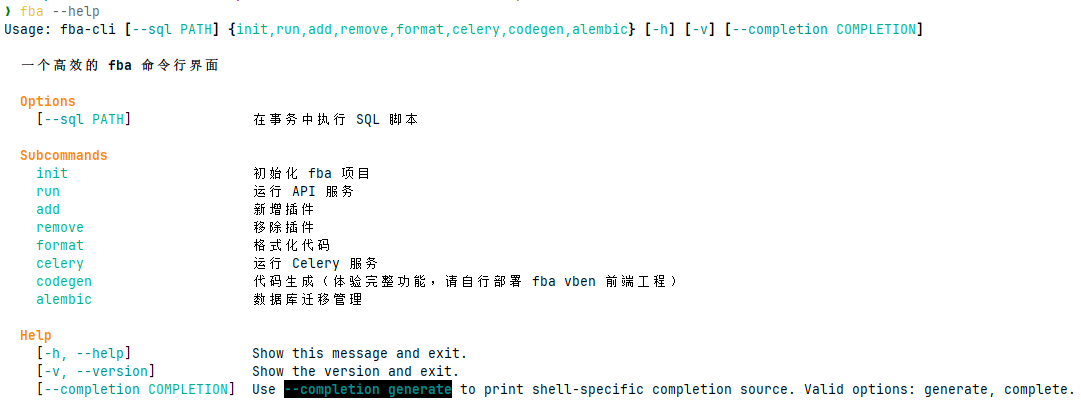
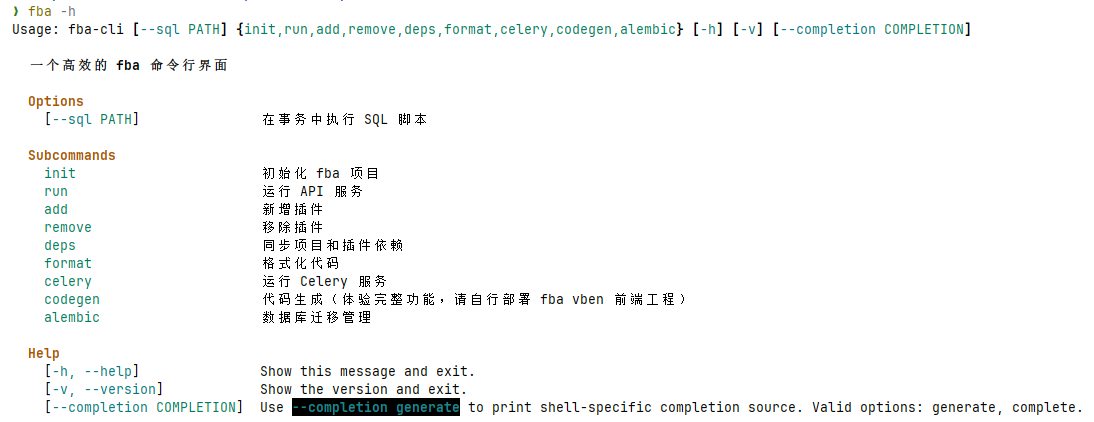
update docs

diff --git a/docs/backend/reference/pagination.md b/docs/backend/reference/pagination.md
@@ -2,5 +2,101 @@
 title: 分页
 ---
 
-后期将发生改变，需等待 PR
-合并：[Allow to have multiple Query parameter models](https://github.com/fastapi/fastapi/pull/12944#pullrequestreview-2588580175)
+fba 基于 `fastapi-pagination` 封装了统一分页能力，核心实现位于 `backend/common/pagination.py`
+
+## 普通分页
+
+普通分页适用于后台管理中常见的列表页。接口层添加 `DependsPagination`，返回类型使用 `ResponseSchemaModel[PageData[XxxDetail]]`
+
+```python
+from backend.common.pagination import DependsPagination, PageData
+from backend.common.response.response_schema import ResponseSchemaModel, response_base
+from backend.database.db import CurrentSession
+
+
[email redacted](
+    '',
+    summary='分页获取用户',
+    dependencies=[
+        DependsPagination,
+    ],
+)
+async def get_users_paginated(
+    db: CurrentSession,
+) -> ResponseSchemaModel[PageData[GetUserInfoWithRelationDetail]]:
+    page_data = await user_service.get_list(db=db)
+    return response_base.success(data=page_data)
+```
+
+`DependsPagination` 默认提供以下查询参数：
+
+| 参数   | 默认值 | 说明        |
+|------|-----|-----------|
+| page | 1   | 页码，最小为 1 |
+| size | 20  | 每页数量，最大 200 |
+
+返回数据包含：
+
+| 字段          | 说明      |
+|-------------|---------|
+| items       | 当前页数据列表 |
+| total       | 数据总条数  |
+| page        | 当前页码   |
+| size        | 每页数量   |
+| total_pages | 总页数    |
+| links       | 分页链接   |
+
+## Service / CRUD
+
+Service 层通常调用 CRUD 层获取 SQLAlchemy `Select` 对象，再通过 `paging_data()` 生成分页数据
+
+```python
+from typing import Any
+
+from sqlalchemy.ext.asyncio import AsyncSession
+
+from backend.app.admin.crud.crud_user import user_dao
+from backend.common.pagination import paging_data
+
+
+class UserService:
+    """用户服务类"""
+
+    @staticmethod
+    async def get_list(*, db: AsyncSession) -> dict[str, Any]:
+        user_select = await user_dao.get_select(dept=None, username=None, phone=None, status=None)
+        return await paging_data(db, user_select)
+```
+
+## 游标分页
+
+游标分页适用于无限滚动、会话列表等需要基于游标继续加载的场景。接口层使用 `DependsCursorPagination`，返回类型使用
+`ResponseSchemaModel[CursorPageData[XxxDetail]]`
+
+```python
+from backend.common.pagination import CursorPageData, DependsCursorPagination
+from backend.common.response.response_schema import ResponseSchemaModel, response_base
+from backend.database.db import CurrentSession
+
+
[email redacted](
+    '',
+    summary='游标分页获取会话',
+    dependencies=[
+        DependsCursorPagination,
+    ],
+)
+async def get_conversations(
+    db: CurrentSession,
+) -> ResponseSchemaModel[CursorPageData[GetAIConversationListDetail]]:
+    page_data = await conversation_service.get_list(db=db)
+    return response_base.success(data=page_data)
+```
+
+游标分页返回数据包含：
+
+| 字段          | 说明       |
+|-------------|----------|
+| items       | 当前页数据列表  |
+| next_cursor | 下一页游标    |
+| has_more    | 是否还有更多数据 |

diff --git a/docs/backend/reference/cache.md b/docs/backend/reference/cache.md
@@ -27,32 +27,53 @@ redis_client: RedisCli = RedisCli()
 自动缓存函数结果
 
 ```python
+from sqlalchemy.ext.asyncio import AsyncSession
+
+from backend.app.admin.crud.crud_user import user_dao
 from backend.common.cache.decorator import cached
 
-@cached(name="user:detail", key="user_id")
-async def get_user_detail(user_id: int):
-    user = await User.get_or_none(id=user_id)
-    return user.dict() if user else None
+
+@cached(name='user:detail', key='user_id')
+async def get_user_detail(db: AsyncSession, user_id: int):
+    return await user_dao.get(db, user_id)
 ```
 
 - 第一次调用 → 执行函数 → 缓存结果
 - 后续调用 → 直接从缓存（L1 或 Redis）返回
+- `key='user_id'` 表示从函数关键字参数中取 `user_id` 作为缓存键，最终键名类似 `user:detail:1`
 
 ### @cache_invalidate
 
 方法执行后自动失效指定缓存
 
 ```python
+from sqlalchemy.ext.asyncio import AsyncSession
+
+from backend.app.admin.crud.crud_user import user_dao
 from backend.common.cache.decorator import cache_invalidate
 
-@cache_invalidate(name="user:detail", key="user_id")
-async def update_user(user_id: int, name: str):
-    await User.filter(id=user_id).update(name=name)
-    return {"message": "updated"}
+
+@cache_invalidate(name='user:detail', key='user_id')
+async def update_user(db: AsyncSession, user_id: int, name: str) -> None:
+    await user_dao.update(db, user_id, {'nickname': name})
 ```
 
 - 执行更新后 → 自动删除 L1 和 Redis 缓存
 - 通过 Pub/Sub 广播 → 通知其他节点清理本地 L1 缓存
+- 默认 `atomic=True`，缓存失效失败时会抛出异常，避免数据已经变更但缓存仍旧存在
+
+### key_builder
+
+如果缓存键无法直接从单个参数中获取，可使用自定义函数生成缓存键
+
+```python
+from backend.common.cache.decorator import cached, user_key_builder
+
+
+@cached(name='user:profile', key_builder=user_key_builder)
+async def get_current_user_profile():
+    ...
+```
 
 ## 对比
 

diff --git a/docs/backend/reference/limit.md b/docs/backend/reference/limit.md
@@ -27,9 +27,15 @@ RateLimiter 设计为 FastAPI 的依赖项，直接在路由中使用 `Depends` 
 
 ```python
 # 每分钟最多 60 次
+from fastapi import Depends
+from pyrate_limiter import Duration, Rate
+
+from backend.utils.limiter import RateLimiter
+
+
 @app.get(
     "/api/example", 
-    dependencies=[Depends(RateLimiter(Rate(5, Duration.MINUTE)))]
+    dependencies=[Depends(RateLimiter(Rate(60, Duration.MINUTE)))]
 )
 async def example():
     return {"message": "success"}
@@ -39,6 +45,12 @@ async def example():
 
 ```python
 # 每秒 10 次 + 每分钟 100 次
+from fastapi import Depends
+from pyrate_limiter import Duration, Rate
+
+from backend.utils.limiter import RateLimiter
+
+
 @app.post(
     "/api/heavy", 
     dependencies=[
@@ -57,8 +69,14 @@ async def heavy_endpoint():
 ### 自定义 Identifier
 
 ```python
+from fastapi import Depends, Request
+from pyrate_limiter import Duration, Rate
+
+from backend.utils.limiter import RateLimiter
+
+
 async def user_identifier(request: Request) -> str:
-    return f"user:{request.user.id}"
+    return f'user:{request.user.id}'
 
 
 @app.get(

diff --git a/docs/backend/reference/pk.md b/docs/backend/reference/pk.md
@@ -71,7 +71,15 @@ title: 主键
 
 1. 务必仔细查看本章节警告内容，确保数据库环境整洁
 2. 更新 `backend/core/conf.py` 中的 `DATABASE_PK_MODE` 配置为 `snowflake`
-3. 阅读 [注意事项](#注意事项)
+3. 按需配置雪花节点 ID
+4. 阅读 [注意事项](#注意事项)
+
+雪花算法支持两种节点分配方式：
+
+- 固定分配：同时配置 `SNOWFLAKE_DATACENTER_ID` 和 `SNOWFLAKE_WORKER_ID`
+- 自动分配：二者都保持为 `None`，服务启动时通过 Redis 自动抢占可用节点，并通过心跳续期
+
+`SNOWFLAKE_DATACENTER_ID` 和 `SNOWFLAKE_WORKER_ID` 必须同时配置或同时为空，且取值范围均为 `0` 到 `31`
 
 ::: caution Windows 平台警告
 如果你在 Windows 平台中使用 MySQL 8.0+，并且遇到 `asyncmy` 相关写入异常，可尝试将 `backend/database/db.py` 文件内的

diff --git a/docs/backend/reference/response.md b/docs/backend/reference/response.md
@@ -149,7 +149,15 @@ def test() -> ResponseSchemaModel[GetApiDetail]:
 @router.get('/test')
 def test() -> ResponseModel:
     res = CustomResponse(code=0, msg='成功')
-    return ResponseModel(res=res, data={'test': 'test'})
+    return ResponseModel(code=res.code, msg=res.msg, data={'test': 'test'})
+```
+
+如果使用统一返回实例，也可以直接传入 `res`
+
+```python{3}
[email redacted]('/test')
+def test() -> ResponseModel:
+    return response_base.success(res=CustomResponse(code=0, msg='成功'), data={'test': 'test'})
 ```
 
 ## 驼峰返回

diff --git a/docs/backend/deploy/Docker.md b/docs/backend/deploy/Docker.md
@@ -47,7 +47,7 @@ title: Docker 部署
    @tab celery
 
    ```shell:no-line-numbers
-   docker build --build-arg SERVER_TYPE=celery -t fba_celery_independent .
+   docker build --build-arg SERVER_TYPE=fba_celery_worker -t fba_celery_worker_independent .
    ```
 
    :::
@@ -60,13 +60,13 @@ title: Docker 部署
    @tab fba
 
    ```shell:no-line-numbers
-   docker run -d -p 8000:8000 --name fba_server fba_server_independent
+   docker run -d -p 8001:8001 --name fba_server fba_server_independent
    ```
 
    @tab celery
 
    ```shell:no-line-numbers
-   docker run -d -p 8555:8555 --name fba_celery fba_celery_independent
+   docker run -d --name fba_celery_worker fba_celery_worker_independent
    ```
 
    :::

diff --git a/docs/backend/reference/conf.md b/docs/backend/reference/conf.md
@@ -33,7 +33,7 @@ docs 在线文档地址
 
 redoc 在线文档地址
 
-### `FASTAPI_OPENAPI_URL` <Badge type="info" text="str" />
+### `FASTAPI_OPENAPI_URL` <Badge type="info" text="str | None" />
 
 openapi JSON 数据在线地址
 
@@ -153,11 +153,11 @@ Redis 缓存过期时长（秒）
 
 是否启用雪花算法作为分布式主键生成方案
 
-### `SNOWFLAKE_DATACENTER_ID` <Badge type="info" text="int" /> <Badge type="warning" text="env" />
+### `SNOWFLAKE_DATACENTER_ID` <Badge type="info" text="int | None" /> <Badge type="warning" text="env" />
 
 雪花算法数据中心 ID
 
-### `SNOWFLAKE_WORKER_ID` <Badge type="info" text="int" /> <Badge type="warning" text="env" />
+### `SNOWFLAKE_WORKER_ID` <Badge type="info" text="int | None" /> <Badge type="warning" text="env" />
 
 雪花算法工作机器 ID
 

diff --git a/docs/backend/reference/i18n.md b/docs/backend/reference/i18n.md
@@ -12,7 +12,7 @@ title: 国际化
 
 获取语言包中的 response 下的 success 字段值
 
-- `t('error.captcha.expired‘)`
+- `t('error.captcha.expired')`
 
 获取语言包中的 error 下的 captcha 下的 expired 字段值
 
@@ -38,7 +38,7 @@ flowchart TD
 
 ## 语言包
 
-语言包位于 `backend/app/locale` 目录下
+语言包位于 `backend/locale` 目录下
 
 ### 命名
 

diff --git a/docs/backend/reference/oauth2.md b/docs/backend/reference/oauth2.md
@@ -5,8 +5,8 @@ title: OAuth 2.0
 我们在 fba 中使用 [fastapi-oauth20](https://github.com/fastapi-practices/fastapi-oauth20) 集成 OAuth 2.0，您可以在
 `backend/plugin/oauth2` 目录中查看我们的官方实现示例
 
-::: note
 此授权方式适用于第三方平台认证登录，第三方授权成功后，将依据第三方平台信息自动创建本地用户并自动授权登录，用户只需同意第三方授权即可
 
-但是，想要使用此方式进行授权，你需要先了解 OAuth 2.0 相关知识，并遵循第三方平台认证要求，获取第三方平台授权密钥，最终，手动编码完成集成
+::: note
+内置 `oauth2` 插件已提供 GitHub、Google 的官方实现示例。想要接入其他 OAuth 2.0 平台时，你仍需要先了解 OAuth 2.0 相关知识，并遵循第三方平台认证要求，获取第三方平台授权密钥，再参考内置插件完成扩展
 :::

diff --git a/docs/architecture.md b/docs/architecture.md
@@ -8,7 +8,7 @@ title: 架构
 
 ![directory_structure](/images/directory_structure.png)
 
-由于前端项目（vben5）体积过大，我们目前采用前后端分离设计（分仓库存储），如果你想将其更新为不分离设计，可以自由选择通用项目/后端为主的项目结构
+由于前端项目体积较大，我们目前采用前后端分离设计（分仓库存储），如果你想将其更新为不分离设计，可以自由选择通用项目/后端为主的项目结构
 
 ## 后端项目架构
 